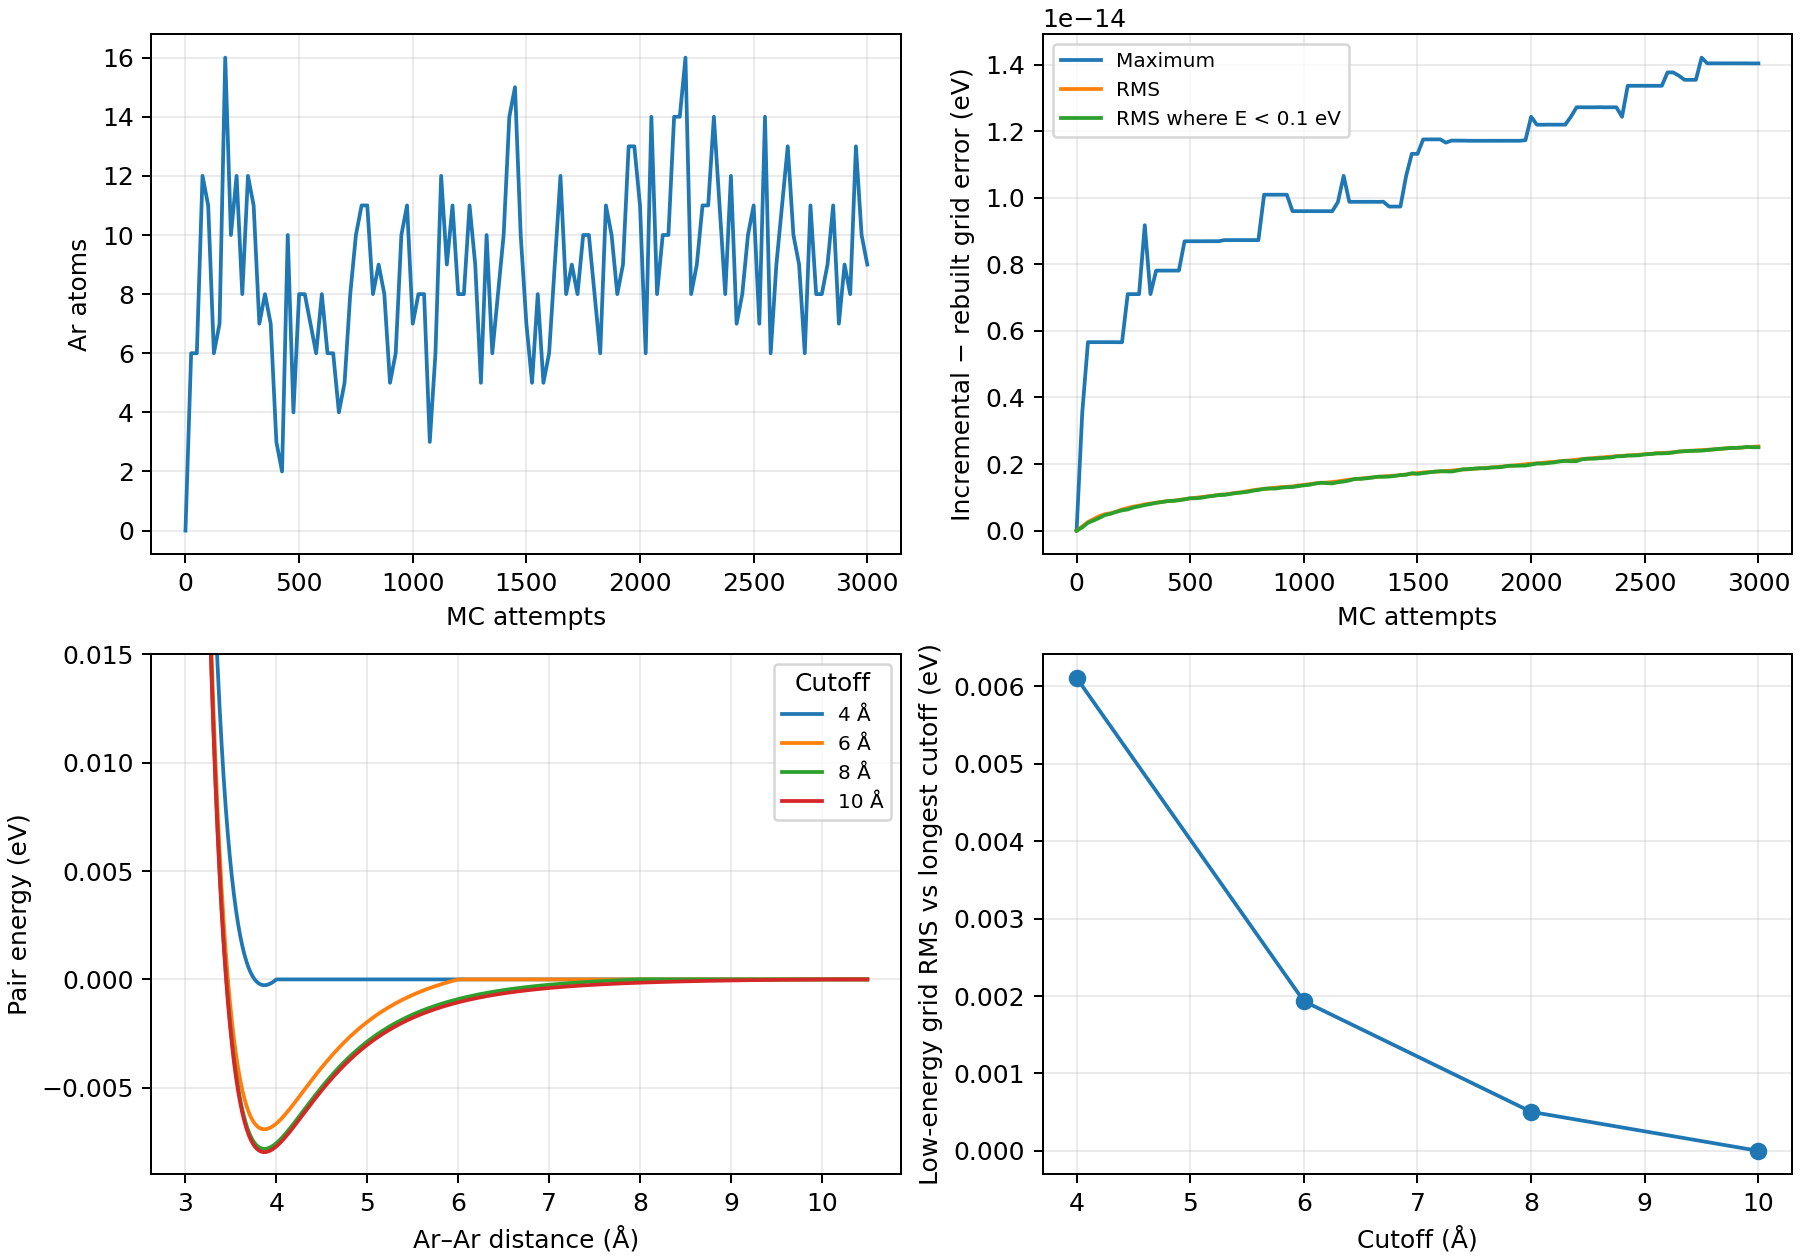
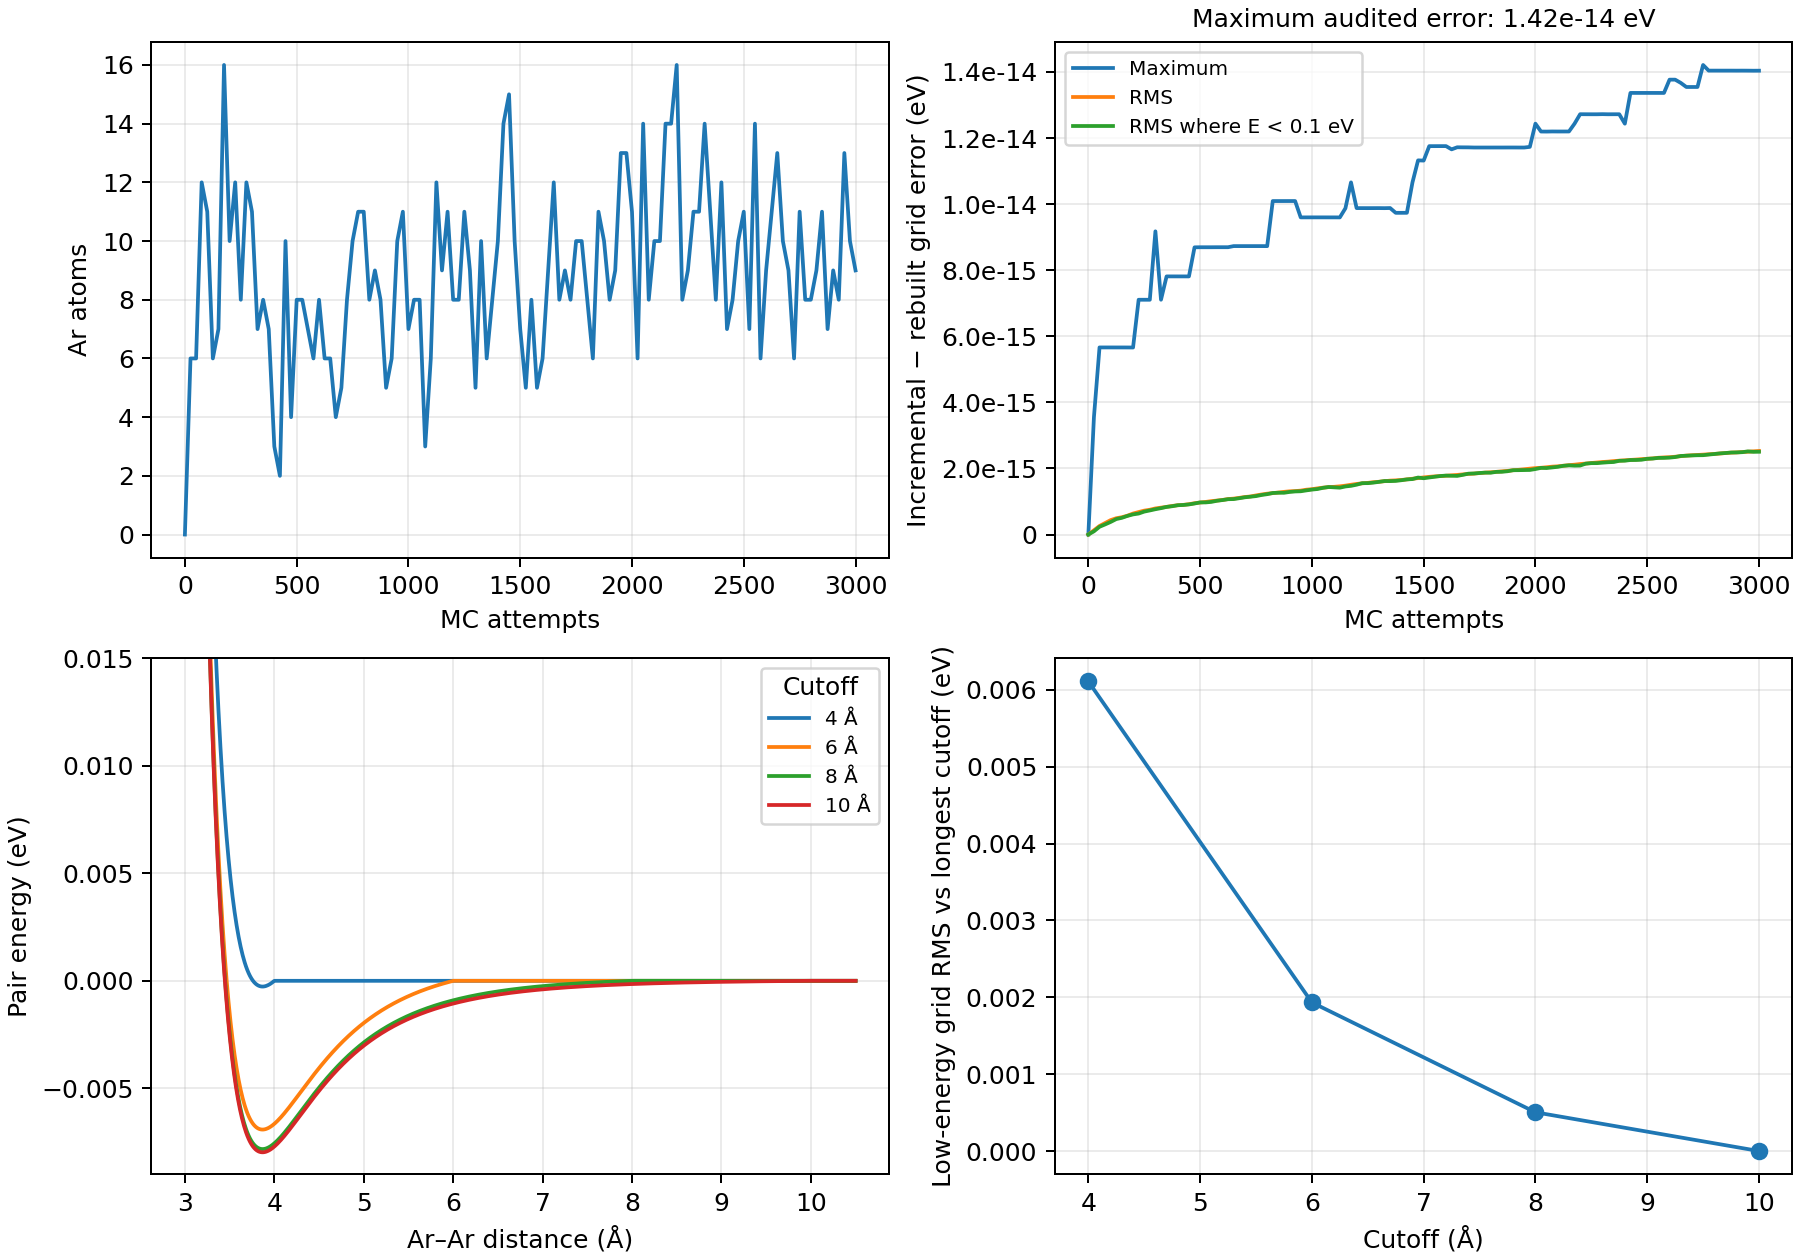
Clarify advanced MC documentation and detailed balance

diff --git a/tests/test_iterative_insertion.py b/tests/test_iterative_insertion.py
@@ -221,3 +221,49 @@ def test_deletion_uses_reverse_density_without_deleted_atom():
     assert mc.step()
     assert len(mc.positions) == 0
     np.testing.assert_array_equal(mc.grid.grid, 0)
+
+
+@pytest.mark.parametrize("forward_ratio", [0.4, 2.5])
+def test_interacting_forward_reverse_kernel_acceptance_thresholds(forward_ratio):
+    """Probe both sides of the actual kernel's MH acceptance thresholds."""
+    base = np.array([[1.5, 2.5, 3.5], [8.0, 9.0, 9.0]])
+    position = np.array([5.25, 2.75, 3.25])
+    reference = module.ArgonMC(length=12, resolution=1, cutoff=5)
+    reference.positions = base.copy()
+    reference.grid.grid[:] = reference.field(base)
+    probability = reference.probability()
+    q = reference.density(probability, position)
+    delta = reference.interaction_energy(position, base)
+    assert delta < 0  # Interacting, attractive insertion, not the ideal gas.
+    beta = 1 / (module.BOLTZMANN_EV_K * reference.temperature)
+    activity = forward_ratio * (len(base) + 1) * q * np.exp(beta * delta)
+    alphas = [min(1, forward_ratio), min(1, 1 / forward_ratio)]
+    assert alphas[0] / alphas[1] == pytest.approx(forward_ratio)
+
+    class PrescribedRNG:
+        def __init__(self, insertion, draw):
+            self.draws = iter([0.1 if insertion else 0.9, draw])
+
+        def random(self, size=None):
+            if size is not None:
+                return position - np.floor(position)  # Unit grid spacing.
+            return next(self.draws)
+
+        def choice(self, size, p):
+            return np.ravel_multi_index(
+                tuple(np.floor(position).astype(int)), (12, 12, 12)
+            )
+
+        def integers(self, n):
+            return n - 1  # Delete the inserted atom, leaving precisely base.
+
+    for insertion, alpha in zip([True, False], alphas):
+        cases = [(alpha * (1 - 1e-5), True)]
+        if alpha < 1:
+            cases.append((alpha * (1 + 1e-5), False))
+        for draw, accepted in cases:
+            mc = module.ArgonMC(length=12, resolution=1, cutoff=5, activity=activity)
+            mc.positions = base.copy() if insertion else np.vstack([base, position])
+            mc.grid.grid[:] = mc.field(mc.positions)
+            mc.rng = PrescribedRNG(insertion, draw)
+            assert mc.step() == accepted

diff --git a/examples/insertion/argon_gcmc.py b/examples/insertion/argon_gcmc.py
@@ -197,6 +197,7 @@ def cutoff_comparison(mc, cutoffs):
 
 def plot_results(mc, history, comparison, output):
     import matplotlib.pyplot as plt
+    from matplotlib.ticker import FuncFormatter
 
     fig, axes = plt.subplots(2, 2, figsize=(10, 7), constrained_layout=True)
     steps = [row["step"] for row in history]
@@ -209,6 +210,12 @@ def plot_results(mc, history, comparison, output):
     ]:
         axes[0, 1].plot(steps, [row[key] for row in history], label=label)
     axes[0, 1].set(xlabel="MC attempts", ylabel="Incremental − rebuilt grid error (eV)")
+    # Put the exponent on every tick; an offset such as 1e-14 is easy to miss.
+    axes[0, 1].yaxis.set_major_formatter(
+        FuncFormatter(lambda value, _: f"{value:.1e}" if value else "0")
+    )
+    maximum_error = max(row["max_abs_ev"] for row in history)
+    axes[0, 1].set_title(f"Maximum audited error: {maximum_error:.2e} eV", fontsize=10)
     axes[0, 1].legend(fontsize=8)
     distances = np.linspace(
         3.0, max(row["cutoff_angstrom"] for row in comparison) + 0.5, 1000

diff --git a/docs/source/conf.py b/docs/source/conf.py
@@ -7,7 +7,7 @@ sys.path.insert(0, str(Path(__file__).resolve().parents[2] / "src"))
 
 project = "AtomVoxelizer"
 author = "AtomVoxelizer contributors"
-release = "1.3.0"
+release = "1.3.1"
 
 extensions = [
     "sphinx.ext.autodoc",

diff --git a/docs/source/argon_mc.rst b/docs/source/argon_mc.rst
@@ -1,9 +1,10 @@
 Iterative Ar Monte Carlo
 ========================
 
-Pairwise fields can be added and removed without rebuilding the entire grid.
-In this example, **2627 accepted updates over 3000 MC attempts agreed with full
-regeneration to within 1.5e-14 eV**. The incremental grid was never reset.
+This example starts with an empty periodic box and updates the insertion grid
+as Ar atoms enter and leave. **2627 accepted updates over 3000 MC attempts
+agreed with full regeneration to within 1.5e-14 eV**. The incremental grid was
+never reset.
 Cutoff choice had a much larger effect: the low-energy RMS difference between
 8 and 10 Angstrom cutoffs was 0.50 meV for the final snapshot.
 
@@ -26,6 +27,10 @@ Run from the repository root:
      - Equally likely insertion or deletion; uniform choice of atom for deletion
    * - Temperature / activity
      - 150 K / 0.001 Angstrom^-3
+   * - Reservoir fugacity / ideal-gas pressure
+     - 20.71 bar
+   * - Chemical potential (classical Ar reference)
+     - -0.14704 eV per atom; Ar mass 39.948 u
    * - Pair model
      - UFF Ar; energy-shifted LJ; 10 eV cap per pair; no tail correction
    * - MC cutoff / grid spacing
@@ -143,21 +148,50 @@ infinite-cutoff result. Each pair curve is exactly zero at its own cutoff.
 MC Acceptance
 -------------
 
-The simulation starts empty and exchanges Ar atoms with a reservoir. Activity
-is z = exp(beta*mu)/Lambda^3 in Angstrom^-3. For N atoms, an insertion at r with
-proposal density q_X(r) is accepted with probability
+The input is activity, z = exp(beta*mu)/Lambda^3, with the monatomic thermal
+wavelength Lambda = h / sqrt(2*pi*m*k_B*T). At 150 K and Ar mass 39.948 u,
+Lambda = 0.22553 Angstrom and mu = k_B*T*ln(z*Lambda^3) = -0.14704 eV.
+The energy reference is an isolated Ar atom with zero potential energy.
+
+The reservoir fugacity is f = z*k_B*T = 20.71 bar. This equals pressure for an
+ideal reservoir. For a nonideal reservoir f = phi*P; converting to pressure
+requires a fugacity coefficient or an equation of state. It is not a measured
+pressure of the simulated box. These definitions follow the
+`standard GCMC convention <https://docs.lammps.org/fix_gcmc.html>`_, using the
+`Ar mass tabulated by NIST <https://webbook.nist.gov/cgi/cbook.cgi?Name=Argon>`_.
+
+Let N be the atom count **before the attempted move**, and q_N(r) the insertion
+proposal density in the current configuration. With equal insertion/deletion
+attempt probabilities and uniform selection of an atom for deletion:
 
 .. math::
 
-   A_{ins} = \min\left(1,\frac{z\,e^{-\beta\Delta U}}{(N+1)q_X(r)}\right).
+   A_{\mathrm{ins}} = \min\left(1,
+       \frac{z}{(N+1)q_N(\mathbf r)}
+       e^{-\beta\Delta U_{\mathrm{ins}}}\right),
+   \qquad \Delta U_{\mathrm{ins}} = U_{N+1}-U_N,
 
-Deletion uses the reciprocal ratio for the reverse insertion, evaluated in the
-state **without the deleted atom**. The insertion bias therefore changes as
-atoms enter or leave, while detailed balance uses the appropriate state in each
-direction. Empty-box deletion attempts are rejected; move selection remains
-50/50. Pair energies are evaluated at actual positions, without grid
-interpolation. The example restricts the cutoff to at most half the cubic box
-length so each pair has one contributing image.
+.. math::
+
+   A_{\mathrm{del}} = \min\left(1,
+       \frac{N q_{N-1}(\mathbf r)}{z}
+       e^{-\beta\Delta U_{\mathrm{del}}}\right),
+   \qquad \Delta U_{\mathrm{del}} = U_{N-1}-U_N.
+
+For deletion, q_{N-1} is evaluated in the configuration **without the deleted
+atom**. The prefactor is N, because the reverse insertion into N-1 atoms has
+denominator (N-1)+1 = N. For uniform proposals, q = 1/V, recovering the usual
+insertion factor z*V/(N+1) and deletion factor N/(z*V).
+
+In the code, ``removed_energy`` is U_N-U_{N-1}, so its deletion exponent is
+``+beta*removed_energy``. Tests check the actual kernel's acceptance thresholds
+in both directions for an interacting pair of configurations, the reverse
+density after removing an atom, and the ideal-gas limit.
+
+Empty-box deletions are rejected; move selection remains 50/50. Energies use
+actual positions and the same capped, shifted potential in both directions.
+The MC example restricts the cutoff to half the cubic box length or less, so
+each pair has one contributing image.
 
 The NPZ file stores final positions and both grids. The
 :download:`full report <_static/argon_gcmc.json>` records every audit, accepted

diff --git a/docs/source/examples.rst b/docs/source/examples.rst
@@ -16,21 +16,6 @@ For development from source:
    cd atomvoxelizer
    pip install -e ".[dev,examples]"
 
-Single-Atom LJ Insertion
-------------------------
-
-``examples/insertion/uff_argon.py`` builds an Ar insertion grid in a carbon cage
-and exports sampled positions with their proposal densities. See :doc:`insertion`
-for settings, usage, and a sampling comparison: the finest grid reduced
-insertion-estimator variance by 14x at 298 K and 22x at 77 K in this fixed host.
-
-Iterative Ar Monte Carlo
-------------------------
-
-``examples/insertion/argon_gcmc.py`` starts with an empty box and adds or
-subtracts pair fields after accepted MC moves. See :doc:`argon_mc` for grid
-drift over 3000 attempts, a finite-core potential, and cutoff comparisons.
-
 Zeolite Voxelization
 --------------------
 
@@ -223,3 +208,17 @@ Run the dtype benchmark to compare grid storage types:
 .. image:: _static/cupy_cell_coloring_scaling.png
    :alt: Experimental CuPy cell-coloring benchmark compared with CPU Numba
    :width: 85%
+
+Advanced Sampling Examples
+--------------------------
+
+These examples use LJ energy fields to bias insertion proposals. Start with the
+fixed-host example, then use the Ar Monte Carlo example to update the field as
+atoms enter and leave the box. Both assume familiarity with periodic grids and
+Monte Carlo sampling.
+
+.. toctree::
+   :maxdepth: 1
+
+   insertion
+   argon_mc

diff --git a/docs/source/insertion.rst b/docs/source/insertion.rst
@@ -1,8 +1,8 @@
 Single-Atom Insertion Bias
 ==========================
 
-An LJ insertion grid concentrates proposals near favorable sites in a fixed
-host. In the carbon-cage example below, a 0.25 Angstrom grid reduced the
+This example uses an LJ insertion grid to sample favorable positions in a
+fixed host. In the carbon-cage example below, a 0.25 Angstrom grid reduced the
 variance of a Widom insertion estimate by **14x at 298 K and 22x at 77 K**
 compared with uniform sampling.
 

diff --git a/README.md b/README.md
@@ -252,7 +252,7 @@ https://github.com/tgmaxson/atomvoxelizer
 Please submit merge requests through the GitLab repository. GitHub issues
 will also be monitored, but active development happens on GitLab.
 
-## Single-atom insertion energies (1.3.0)
+## Single-atom insertion energies (1.3.1)
 
 Build UFF Lennard-Jones energy grids for single-atom probes and generate
 normalized energy-biased insertion proposals:

diff --git a/docs/source/index.rst b/docs/source/index.rst
@@ -18,8 +18,6 @@ volume.
    concepts
    analysis
    examples
-   insertion
-   argon_mc
    contributing
    citation
    api
